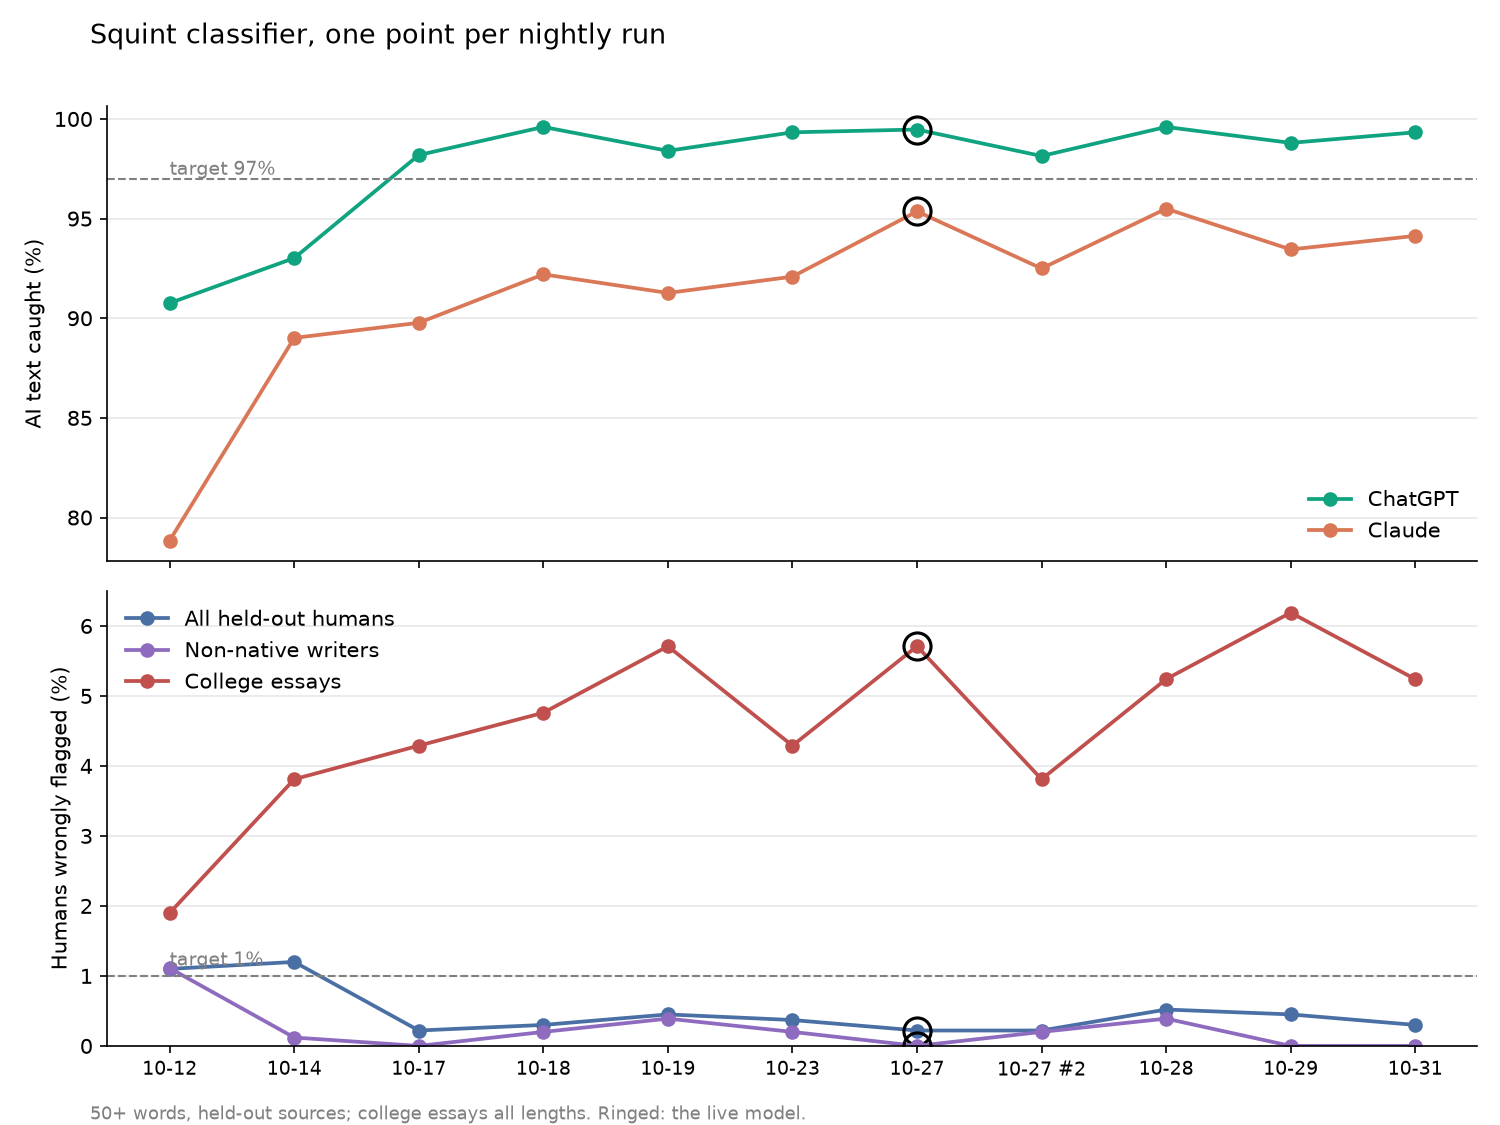
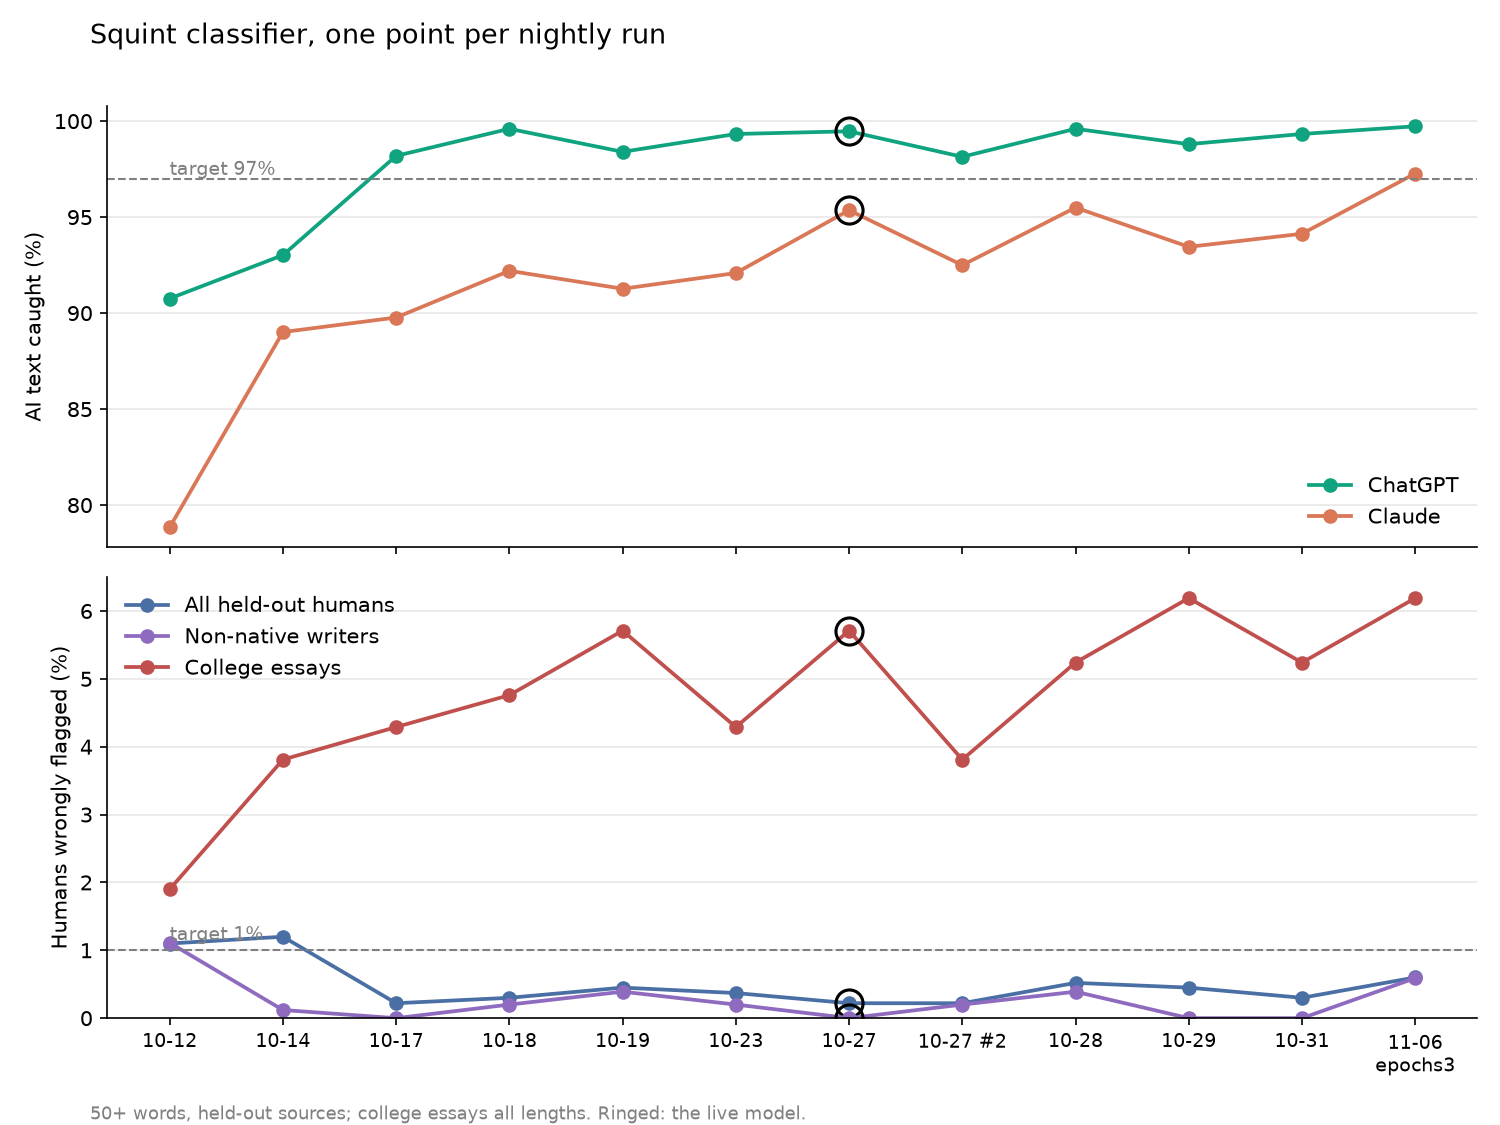
Retry a blocked batch one item per call; chart through 11-06
Claude's safety filter blocks a whole batch when one prompt touches biology, so 20 sealed
items never got written. Items from a failed batch now get a call each in the next round.

Claude-Session: https://claude.ai/code/session_01KfFndQed4H2ivfR6mnfpRS

diff --git a/calibration/generate_ai.py b/calibration/generate_ai.py
@@ -459,12 +459,14 @@ def save_status(source: str, entry: dict, gen_dir: Path = GEN_DIR) -> None:
     tmp.replace(p)
 
 
-def plan_batches(todo: list[dict]) -> list[list[dict]]:
-    """Group pending items into calls: long kinds together (fixed order first), then short."""
+def plan_batches(todo: list[dict], alone: set[str] = frozenset()) -> list[list[dict]]:
+    """Group pending items into calls: long kinds together (fixed order first), then short. Items in
+    `alone` (their batch failed) get a call each, so one blocked prompt doesn't sink the rest."""
+    batches = [[it] for it in todo if it["id"] in alone]
+    todo = [it for it in todo if it["id"] not in alone]
     long_items = [it for it in todo if it["kind"] != "short"]
     short_items = [it for it in todo if it["kind"] == "short"]
     kinds = list(LONG_KIND_ORDER) + sorted({it["kind"] for it in long_items} - set(LONG_KIND_ORDER))
-    batches = []
     for kind in kinds:
         # shuffle (deterministically) so one call never holds several pieces on one prompt
         same = sorted([it for it in long_items if it["kind"] == kind], key=lambda it: stable_hash("batch", it["id"]))
@@ -508,11 +510,12 @@ def run_source(source: str, limit_calls: int | None, max_rounds: int, gen_dir: P
     calls = limit_waits = 0
     st = dict(load_status(gen_dir).get(source, {}))
     hint_ids = prior_rejects(call_dir, {it["id"]: it for it in plan}) - set(done)
+    alone = set()
     for rnd in range(max_rounds):
         todo = [it for it in plan if it["id"] not in done]
         if not todo:
             break
-        batches = plan_batches(todo)  # keeps registers together inside a batch
+        batches = plan_batches(todo, alone)  # keeps registers together inside a batch
         print(f"[{source}] round {rnd + 1}: {len(todo)} items in {len(batches)} calls", flush=True)
         for batch in batches:
             if limit_calls is not None and calls >= limit_calls:
@@ -563,6 +566,7 @@ def run_source(source: str, limit_calls: int | None, max_rounds: int, gen_dir: P
                 time.sleep(wait)
             if not res or not res["ok"]:
                 print(f"[{source}] giving up on batch {[b['id'] for b in batch]} this round", flush=True)
+                alone |= {b["id"] for b in batch}
                 continue
             try:
                 got = {g["id"]: g["text"] for g in parse_items(res["text"])}

diff --git a/calibration/tests/test_generate.py b/calibration/tests/test_generate.py
@@ -42,6 +42,15 @@ class RetryHint(unittest.TestCase):
             self.assertEqual(g.prior_rejects(d, plan), {"x-1"})
 
 
+class Batches(unittest.TestCase):
+    def test_failed_items_get_a_call_each(self):
+        todo = [{"id": f"a-{i}", "kind": "abstract"} for i in range(6)]
+        self.assertEqual(sorted(len(b) for b in g.plan_batches(todo)), [1, 5])
+        batches = g.plan_batches(todo, {"a-0", "a-1"})
+        self.assertEqual([[it] for it in todo[:2]], batches[:2])
+        self.assertEqual(sorted(len(b) for b in batches[2:]), [4])
+
+
 class LengthRule(unittest.TestCase):
     def test_long_floor_follows_a_small_target(self):
         abstract = {"id": "a", "kind": "abstract", "target_words": 100}
